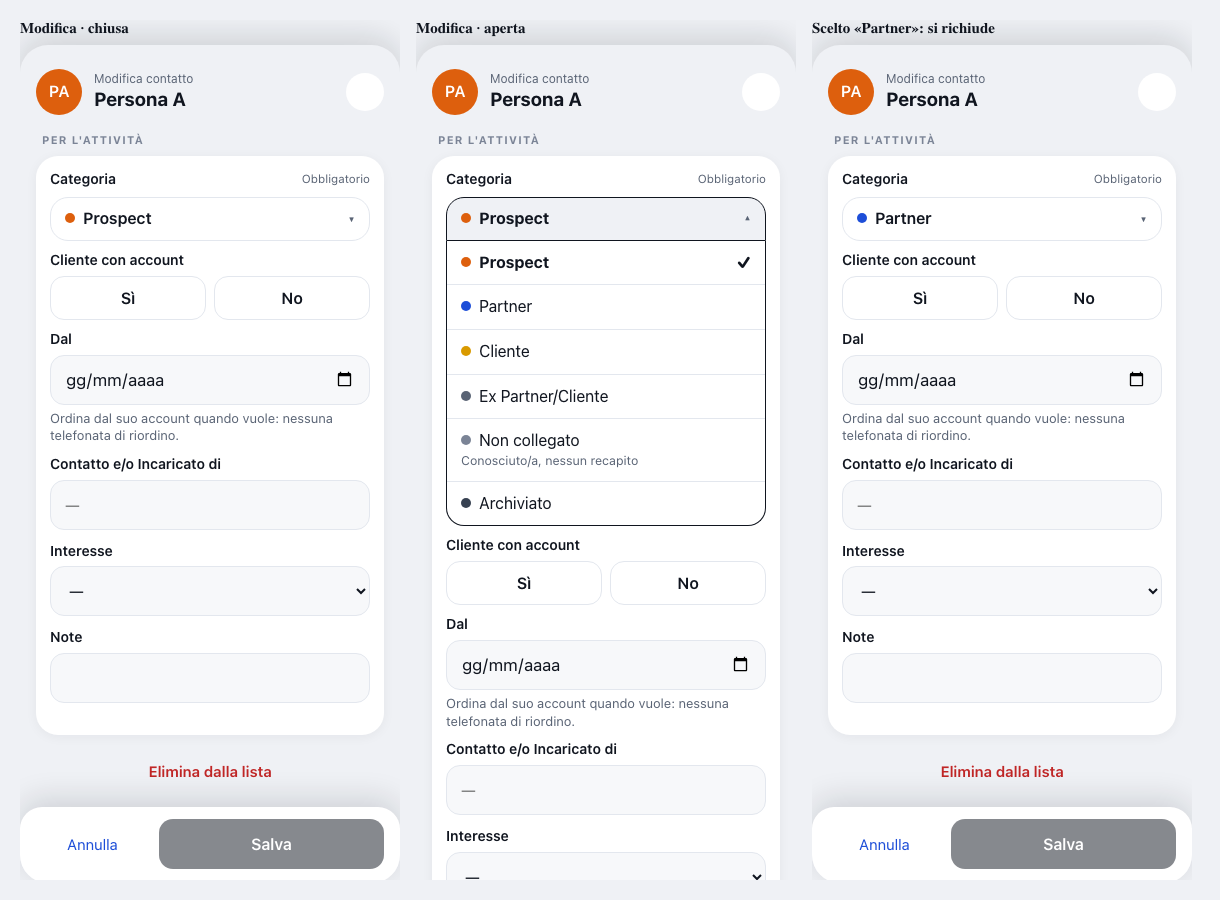
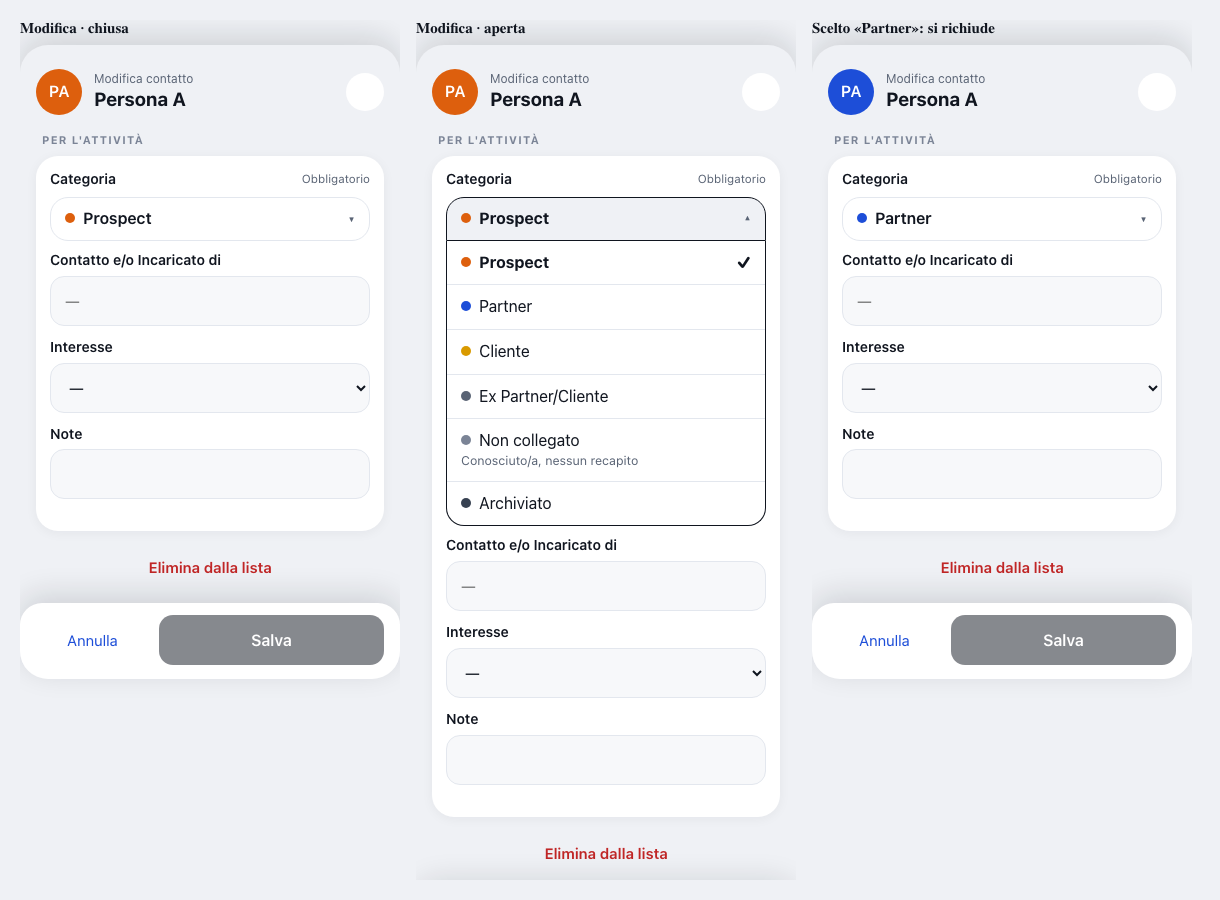
Pagine 127, aggiunta (Ignazio 28/10, via Regia: «Cliente con account deve comparire soltanto quando la categoria è cliente»): verificato che nel modulo compare solo con Cliente e cambia subito con la tendina (segnaAccount sul change di #f-cat), con «Dal» e la riga dentro; il dato salvato non si tocc

diff --git a/tools/banco/prova_lista_verifica.js b/tools/banco/prova_lista_verifica.js
@@ -297,6 +297,15 @@ prova('Nota 127: la Categoria è una tendina (sel5 + tendina5) — chiusa dice l
   assert.match(h, /<button type="button" class="scelto" data-cat="Partner">/); assert.doesNotMatch(h, /class="scelto" data-cat="Prospect"/);
   assert.doesNotMatch(h, /class="tnd5 aperta"/);   // ridisegnata chiusa
   assert.match(apriModuloVero(null, { nome: 'Persona B' }).innerHTML, /class="sel5" data-tnd5><small>Scegli la categoria<\/small>/);   // nuovo contatto senza categoria
+  // aggiunta 127 (Ignazio 28/10: «Cliente con account deve comparire soltanto quando la categoria è cliente»): compare e sparisce subito con la tendina,
+  // e con lui «Dal» e «Ordina dal suo account…», che gli stanno dentro
+  const n = apriModuloVero(null, { nome: 'Persona C', categoria: 'Prospect' });
+  assert.equal(n.querySelector('#f-account-campo').style.display, 'none');   // Prospect: nascosto
+  const campoAcc = n.innerHTML.slice(n.innerHTML.indexOf('id="f-account-campo"'), n.innerHTML.indexOf('</div></div>', n.innerHTML.indexOf('Ordina dal suo account')));
+  assert.match(campoAcc, /f-account-dal-posto[\s\S]*Ordina dal suo account/);   // «Dal» e la riga stanno dentro il campo: spariscono con lui
+  assert.match(PL, /\$\('f-cat'\)\.addEventListener\('change', segnaAccount\);/);
+  assert.match(PL, /\$\('f-account-campo'\)\.style\.display = \$\('f-cat'\)\.value === 'Cliente' && account\.letto \? '' : 'none';/);
+  assert.match(PL, /if \(account\.letto && riga\.categoria === 'Cliente'\) \{/);   // con un'altra categoria il dato salvato non si tocca
   assert.match(IDX, /\.mc-pallino \{ display: inline-block; width: 10px; height: 10px; border-radius: 50%; background: var\(--cat\);/);
 });
 

diff --git a/STRUTTURA.md b/STRUTTURA.md
@@ -1284,7 +1284,7 @@ Le 4 righe Partner/Cliente · Contatto · Richiamare/Appuntamento sono state agg
 - **«Da catalogare» della Lista Nomi è del partner visto** (nota Pagine 019, segnalazione di Ignazio 06/10/2026): prima la Lista disegnava `ST.catalogo` così com'era e `ST.catalogo` si riempiva solo in Dashboard (`caricaOggi`): col Partner Select su Ornella → Dashboard → Partner Select su sé → Lista → «Da catalogare» uscivano i nomi di Ornella. Ora al cambio del Partner Select (`scegliPartner`, index.html) si azzerano `ST.catalogo`, `ST.catalogoDi` e `ST.vistaCatalogo`; `caricaOggi` segna `ST.catalogoDi = visto().id`; la Lista (`apriLista`) chiama `caricaCatalogo()` (`pagina-dashboard.js`): se `ST.catalogo` manca, è di un altro partner o di un altro giorno, legge lo stato di oggi (`stato_oggi`, per «ne hai catalogati N») e i senza categoria del partner visto (`leggiSenzaCategoria`); con «Tutti» o offline niente riquadro. Se è già suo e di oggi, nessuna richiesta.
 - **Le icone** (cantiere 34 lavoro 2, 19/09/2026): file unico **`icone.js`** (si carica per primo): `DISEGNI` nome → disegno a tratto (griglia 24, un colore, niente riempimenti: i disegni vengono dalla tela di Claude Design), `MB21Icone.icona(nome, px)` → `<svg class="ic"><use href="#ic-nome"/></svg>` (nome sconosciuto → stringa vuota), `monta()` mette nella pagina i `<symbol id="ic-…">`; stile `svg.ic` nel foglio di `index.html`; prova `tools/banco/prova_icone.js`. I disegni si importano dalla tavola di Design con `tools/design/importa_icone.py` (83 icone al 19/09). Usate per ora nella barra in basso; le emoji si sostituiscono pagina per pagina
 - **I moduli (fogli che salgono dal basso)** hanno tutti la stessa forma (cantiere 34, decisa con Ignazio il 19/09 su prova affiancata `tools/design/confronto_modulo.html`): foglio con la classe **`mc`** (fondo perla), in testa **`.mc-testa`** (tondo con le iniziali nel colore della categoria, sopra in piccolo di che foglio si tratta, sotto il nome), i campi raccolti in gruppi (`<h4 class="mc-t">titoletto</h4>` + `<div class="riquadro mc-g">`), «Annulla · Salva» fermi in fondo in **`.mc-fondo`**. Così: Nuovo contatto / Modifica (`apriModulo`, categoria a pastiglie `.mc-cat` che scrivono nel menu nascosto `#f-cat`), Nuovo appuntamento (`nuovoAppuntamento`: «Area e tipo» · «Data e note»), Modifica azione (`foglioAzione`: «Tipo ed esito» · «Data e note»), Check del Giorno (`apriCheck`: «Attività» · «Crescita»), Obiettivi (`apriObiettivi`: un gruppo per Volume · Azione · Segni Vitali · Crescita), **Nuova vendita / Modifica vendita** (`pagina-vendite.js`, dal 20/09: «Che cosa hai venduto» · «Quando» · «Il prossimo riordino», con «Elimina questa vendita» in fondo all'ultimo gruppo). **Campi e id non cambiano**: cambia solo come sono raccolti
-- **Categoria a tendina nel modulo Nuovo / Modifica contatto** (nota Pagine 127, Ignazio 28/10/2026: «mi escono ancora tutte le categorie da cliccare. Non la leggo a tendina»): in `apriModulo` (pagina-lista.js) `tendinaCategoria(categorie, scelta)` usa `tendina5Html` / `collegaTendine5` di index.html, come il Nuovo appuntamento e «Modifiche»: chiusa «● Prospect ▾» (pallino `.mc-pallino` col colore della categoria) o «Scegli la categoria»; aperta l'elenco con ✓, e sotto «Non collegato» la spiegazione (`SPIEGA_CATEGORIA`). Il tocco su una voce (`data-cat`) scrive nel menu nascosto `#f-cat`, avvisa il modulo (`change`), tinge la testata e ridisegna la tendina chiusa. Tolte le pastiglie `.mc-cats`/`.mc-cat`. «Da catalogare» in Oggi tiene i suoi tre tasselli (scelta «A»). Prova in `tools/banco/prova_lista_verifica.js`; foto `docs/prototipi/categoria_tendina_127.png`.
+- **Categoria a tendina nel modulo Nuovo / Modifica contatto** (nota Pagine 127, Ignazio 28/10/2026: «mi escono ancora tutte le categorie da cliccare. Non la leggo a tendina»): in `apriModulo` (pagina-lista.js) `tendinaCategoria(categorie, scelta)` usa `tendina5Html` / `collegaTendine5` di index.html, come il Nuovo appuntamento e «Modifiche»: chiusa «● Prospect ▾» (pallino `.mc-pallino` col colore della categoria) o «Scegli la categoria»; aperta l'elenco con ✓, e sotto «Non collegato» la spiegazione (`SPIEGA_CATEGORIA`). Il tocco su una voce (`data-cat`) scrive nel menu nascosto `#f-cat`, avvisa il modulo (`change`), tinge la testata e ridisegna la tendina chiusa. Tolte le pastiglie `.mc-cats`/`.mc-cat`. «Da catalogare» in Oggi tiene i suoi tre tasselli (scelta «A»). «Cliente con account» (con «Dal» e «Ordina dal suo account…», che gli stanno dentro) si vede solo con la categoria Cliente e compare o sparisce subito cambiando la tendina (`segnaAccount` sul `change` di `#f-cat`, già così dal 22/10; Ignazio 28/10 lo ha chiesto di nuovo); con un'altra categoria il dato salvato non si tocca; nella scheda in lettura la riga e la targhetta «Account» ci sono solo per i Clienti. Prova in `tools/banco/prova_lista_verifica.js`; foto `docs/prototipi/categoria_tendina_127.png`.
 - **Le icone sono 85, tutte di Design** (20/09): con l'ultimo giro sono arrivate **`ic-telegram`** definitiva (al posto di quella provvisoria di Code, che stava **fuori** dal blocco `DISEGNI` e lo sovrascriveva: tolta) e **`ic-liberta`** (voce di Design «Niente è vincolante»), che sostituisce l'ultima **emoji rimasta a video**, la colomba della seconda schermata del Benvenuto. Si importano con `python3 tools/design/importa_icone.py` dopo aver copiato la tavola in `tools/design/da_design/Icone.dc.html` (si legge dalla tela di Claude Design con lo strumento Artifact)
 - **Le Novità non si aprono più da sole** (Ignazio 20/09: «tutte le scritte sospendile al momento, le inseriamo solo nella lista del profilo, perché sono troppe e si annoiano se sempre gliene compare una»). Il foglio all'ingresso è spento con un `if (false && …)` in `pagina-novita.js` (`controllaNovita`), **una riga sola da togliere per riaccenderlo**; il resto del meccanismo («Ho capito», la memoria per dispositivo, `daMostrare`) resta intatto. Le righe si continuano a scrivere in `novita.js` a ogni modifica visibile, come dice `CLAUDE.md`, e si leggono dal **Profilo → Novità dell'app**. **Da fare più avanti**: un **riepilogo mirato**, cioè una novità sola che riassume un periodo di lavoro, da mostrare una volta
 - **Nell'app non c'è più nessun colore scritto a mano** (cantiere 34, 20/09, dopo il controllo su tutta l'app): ogni tinta sta nel blocco `:root` di `index.html` con un nome che dice a che serve. Cinque famiglie: **categorie** (`--cat-*`) · **Segni Vitali** (`--bbs`, `--wes`, `--cep`) · **i quattro gruppi dei numeri** (`--gr-volume` blu · `--gr-azione` arancio · `--gr-segni` verde · `--gr-crescita` viola: sono di Dashboard, Check e Obiettivi, **non** seguono le categorie) · **i tipi di azione** (`--az-*`) · **i marchi** (`--brand-*`, `--revolut`: colori decisi da Amway e da Revolut). Prima gli stessi colori erano copiati a mano in **cinque file diversi** con toni leggermente diversi (`dashboard.js`, `check.js`, `agenda.js`, `report.js`, `pagina-dashboard.js`, `lista.js`, `mappa.js`): cambiarne uno lasciava indietro gli altri. I moduli puri restituiscono `var(--nome)`, non il codice del colore; le caselle della tabella dei Segni Vitali, che si accendono piano piano, usano `rgba(var(--bbs-rgb), forza)` perché serve il colore in numeri. Unica cosa ancora scritta a mano: i quattro colori del **logo di Google** in `ICONA_G`
